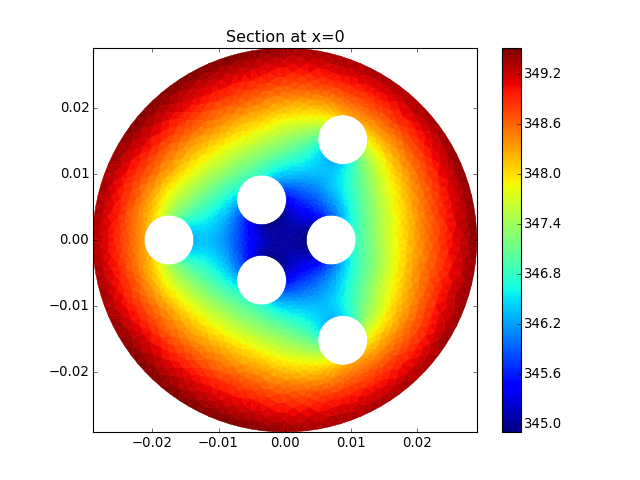
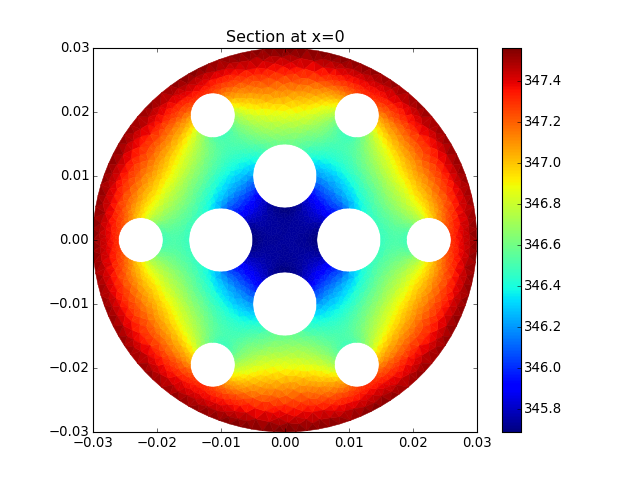
HeatExchanger: created __init__ method Signed-off-by: milen <milen_kb@abv.bg>

diff --git a/ThermoFluids/models/HeatExchangerDesign.py b/ThermoFluids/models/HeatExchangerDesign.py
@@ -211,7 +211,7 @@ class CylindricalBlockHeatExchanger(NumericalModel):
 	
 	# Fields: settings
 	fvSolverSettings = F.SubModelGroup(FiniteVolumeSolverSettings, 'FG', label = 'Finite volume solver')
-	sectionResultsSettings = F.SubModelGroup(SectionResultsSettings, 'FG', label = 'Section results plots') #:TODO: (NASKO:WORK) 
+	sectionResultsSettings = F.SubModelGroup(SectionResultsSettings, 'FG', label = 'Section results plots') 
 	settingsSG = F.SuperGroup([fvSolverSettings, sectionResultsSettings], label = 'Settings')
 	
 
@@ -230,7 +230,7 @@ class CylindricalBlockHeatExchanger(NumericalModel):
 	primaryFlowOut = F.SubModelGroup(FluidFlowOutput, 'FG', label = 'Primary flow outlet')
 	secondaryFlowOut = F.SubModelGroup(FluidFlowOutput, 'FG', label = 'Secondary flow outlet')
 	externalFlowOut = F.SubModelGroup(FluidFlowOutput, 'FG', label = 'External flow outlet')
-	QDotChannels = F.SubModelGroup(HeatFlowChannels, 'FG', label = 'Heat flow') #:TODO: (NASKO:WORK)
+	QDotChannels = F.SubModelGroup(HeatFlowChannels, 'FG', label = 'Heat flow')
 	resultSG = F.SuperGroup([primaryFlowOut, secondaryFlowOut, externalFlowOut, QDotChannels], label = 'Results')
 	
 	resultTable = F.TableView((
@@ -281,7 +281,7 @@ class CylindricalBlockHeatExchanger(NumericalModel):
 	
 	
 	############# Methods ###############
-	def __init__(self):
+	def __init__Internal(self):
 		self.blockGeom.diameter = (58.0, 'mm')
 		self.blockGeom.length = (0.8, 'm')
 		self.blockProps.divisionStep = (0.1, 'm')
@@ -328,7 +328,7 @@ class CylindricalBlockHeatExchanger(NumericalModel):
 		self.externalFlowIn.solName = 'MEG'
 		self.externalFlowIn.solMassFraction = (50, '%')
 		self.externalFlowIn.flowRateChoice = 'V'
-		self.externalFlowIn.vDot = (3, 'm**3/h')
+		self.externalFlowIn.VDot = (3, 'm**3/h')
 		self.externalFlowIn.T = (80, 'degC')
 		self.externalFlowIn.p = (1, 'bar') 
 		
@@ -340,6 +340,66 @@ class CylindricalBlockHeatExchanger(NumericalModel):
 		self.sectionResultsSettings.setTRange = False
 		self.sectionResultsSettings.Tmin = (100, 'K')
 		self.sectionResultsSettings.Tmax = (380, 'K')
+		
+	def __init__(self):
+		self.blockGeom.diameter = (60.0, 'mm')
+		self.blockGeom.length = (1.0, 'm')
+		self.blockProps.divisionStep = (0.1, 'm')
+		self.blockProps.material = 'Aluminium6061'
+		
+		self.primaryChannelsGeom.number = 4
+		self.primaryChannelsGeom.radialPosition = (10, 'mm')
+		self.primaryChannelsGeom.startingAngle = (0, 'deg')
+		self.primaryChannelsGeom.meshFineness = 4
+		self.primaryChannelsGeom.channelName = "PrimaryChannel"
+		
+		self.primaryChannelsGeom.externalDiameter = (10, 'mm')
+		self.primaryChannelsGeom.sections[0] = (0.000, 0.2)
+		self.primaryChannelsGeom.sections[1] = (0.002, 0.2)
+		self.primaryChannelsGeom.sections[2] = (0.004, 0.2)
+		self.primaryChannelsGeom.sections[3] = (0.006, 0.2)
+		self.primaryChannelsGeom.sections[4] = (0.008, 0.2)
+		
+		self.secondaryChannelsGeom.number = 6
+		self.secondaryChannelsGeom.radialPosition = (22.5, 'mm')
+		self.secondaryChannelsGeom.startingAngle = (60, 'deg')
+		self.secondaryChannelsGeom.meshFineness = 4
+		self.secondaryChannelsGeom.channelName = "SecondaryChannel"
+		
+		self.secondaryChannelsGeom.externalDiameter = (7, 'mm')
+		self.secondaryChannelsGeom.sections[0] = (0.002, 0.2)
+		self.secondaryChannelsGeom.sections[1] = (0.003, 0.2)
+		self.secondaryChannelsGeom.sections[2] = (0.004, 0.2)
+		self.secondaryChannelsGeom.sections[3] = (0.005, 0.2)
+		self.secondaryChannelsGeom.sections[4] = (0.006, 0.2)
+		
+		self.primaryFlowIn.fluidName = 'Nitrogen'
+		self.primaryFlowIn.flowRateChoice = 'm'
+		self.primaryFlowIn.mDot = (10, 'kg/h')
+		self.primaryFlowIn.T = (200, 'K')
+		self.primaryFlowIn.p = (20, 'bar') 
+		
+		self.secondaryFlowIn.fluidName = 'Nitrogen'
+		self.secondaryFlowIn.flowRateChoice = 'm'
+		self.secondaryFlowIn.mDot = (10, 'kg/h')
+		self.secondaryFlowIn.T = (200, 'K')
+		self.secondaryFlowIn.p = (20, 'bar') 
+		
+		self.externalFlowIn.solName = 'MPG'
+		self.externalFlowIn.solMassFraction = (50, '%')
+		self.externalFlowIn.flowRateChoice = 'V'
+		self.externalFlowIn.VDot = (1, 'm**3/h')
+		self.externalFlowIn.T = (350, 'K')
+		self.externalFlowIn.p = (1, 'bar') 
+		
+		self.externalChannelGeom.widthAxial = (40, 'mm')
+		self.externalChannelGeom.heightRadial = (10, 'mm')
+		self.externalChannelGeom.coilPitch = (43, 'mm')
+		self.externalChannelGeom.meshFineness = 4
+		
+		self.sectionResultsSettings.setTRange = False
+		self.sectionResultsSettings.Tmin = (200, 'K')
+		self.sectionResultsSettings.Tmax = (350, 'K')
 		
 	def compute(self):
 		# PreComputation
